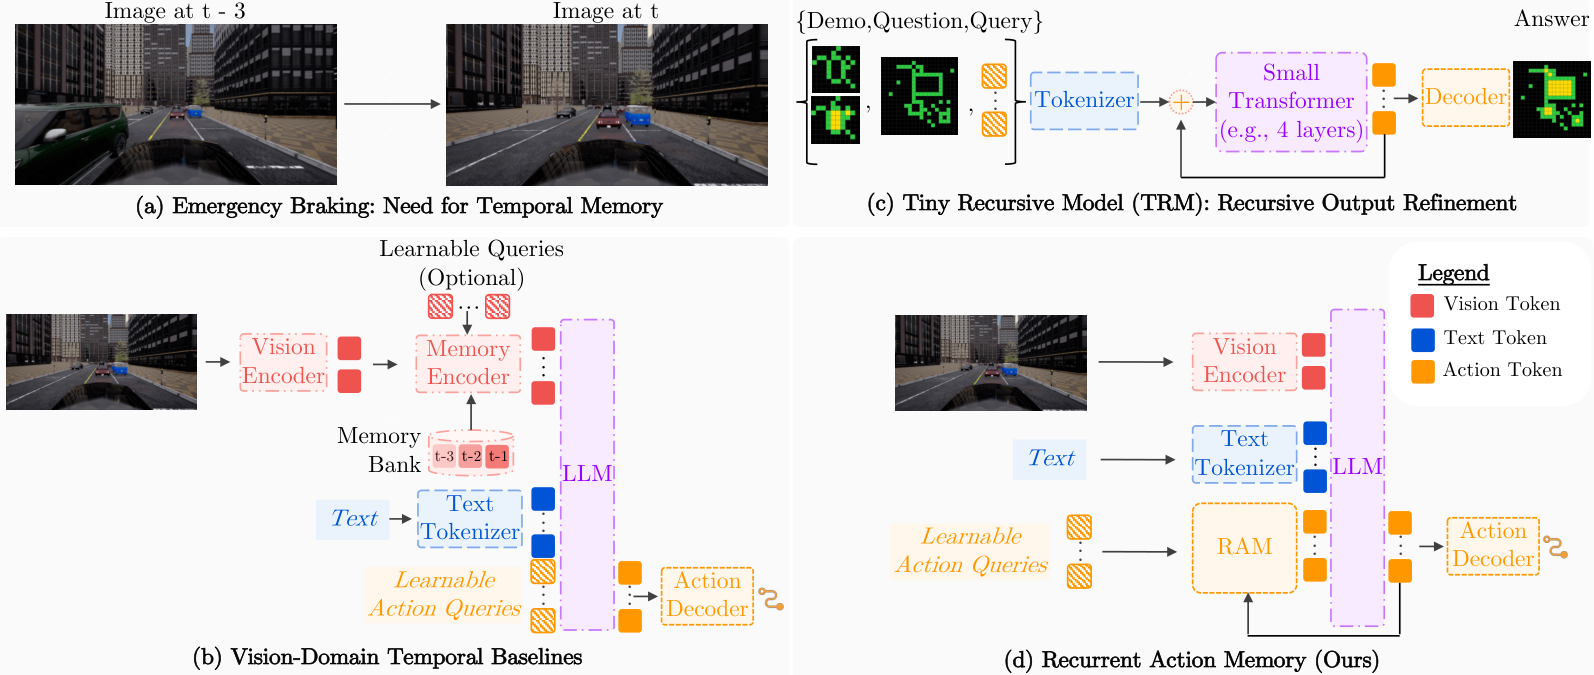
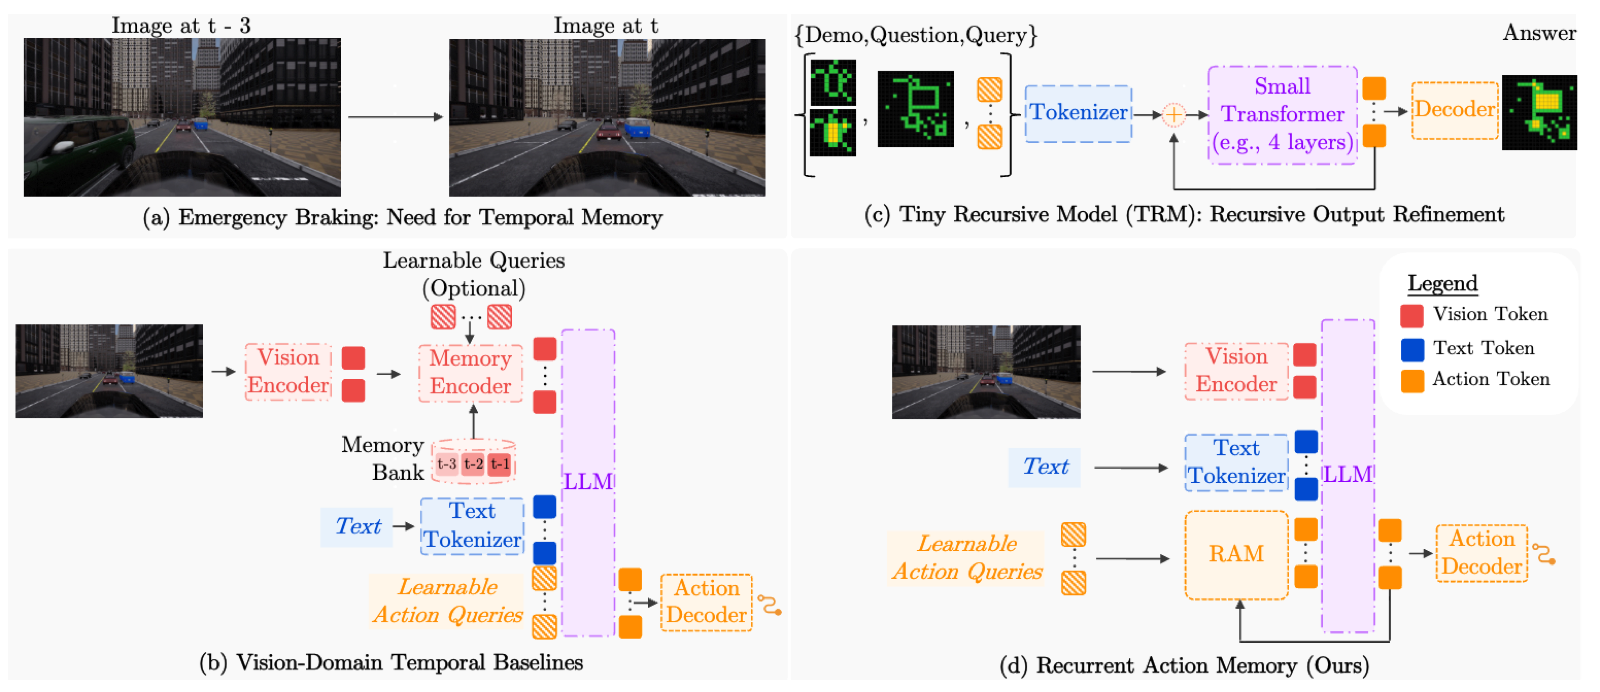
Sharpen publication images and rename Abstract to TL;DR
- Use crisper Figure 1 for FIVE-VLA featured image
- Generate list thumbnails at 1400px and single-page featured image at 1440px (2x display width)
- Override i18n so publication pages label the summary TL;DR, styled like section headings

diff --git a/layouts/partials/page_header.html b/layouts/partials/page_header.html
@@ -1,0 +1,106 @@
+{{/*
+  Overrides the Wowchemy partial of the same name. The only change: the
+  default (placement 1) featured image is generated at 2x its displayed
+  width so it stays sharp on high-DPI screens. Display size is unchanged.
+*/}}
+{{ $page := . }}
+{{ $featured := (.Resources.ByType "image").GetMatch "*featured*" }}
+{{ $anchor := $page.Params.image.focal_point | default "Smart" }}
+
+{{/* Set default titles for node pages */}}
+{{ $title := .Title }}
+{{ if and (not $title) .IsNode }}
+  {{ if eq .Type "post" }}
+    {{ $title = i18n "posts" }}
+  {{ else if eq .Type "event" }}
+    {{ $title = i18n "talks" }}
+  {{ else if eq .Type "publication" }}
+    {{ $title = i18n "publications" }}
+  {{end}}
+{{end}}
+
+{{/* Banner image */}}
+{{ if and .Params.banner.image (not (and $featured (not .Params.image.preview_only))) }}
+<div class="article-header">
+  {{- $img := "" -}}
+  {{ $alt := (.Params.banner.caption | default "") | plainify }}
+  {{ $destination := .Params.banner.image }}
+  {{ $is_remote := strings.HasPrefix $destination "http" }}
+  {{- if not $is_remote -}}
+    {{- $img = (.Page.Resources.ByType "image").GetMatch $destination -}}
+    {{- if not $img -}}
+      {{- $img = resources.Get (path.Join "media" $destination) -}}
+    {{- end -}}
+  {{- end -}}
+  {{ if $img }}
+    <img src="{{$img.RelPermalink}}" width="{{$img.Width}}" height="{{$img.Height}}" class="article-banner" alt="{{$alt}}">
+  {{ else }}
+    <img src="{{ .Params.banner.image }}" class="article-banner" alt="{{$alt}}">
+  {{ end }}
+
+  {{ with .Params.banner.caption }}<span class="article-header-caption">{{ . | markdownify | emojify }}</span>{{ end }}
+</div>
+{{end}}
+
+{{/* Featured image layout */}}
+{{ if and $featured (not .Params.image.preview_only) }}
+
+{{/* Fit image within max size. */}}
+{{ $image := $featured }}
+
+{{/* Determine image placement. */}}
+{{ $placement := .Params.image.placement | default 1 }}{{/* Default to full column width. */}}
+{{/* Fit image to container's max width */}}
+{{ $image_container := "" }}
+{{ if eq $placement 2}}
+  {{ $image_container = "container" }}
+  {{ $image = $featured.Fit "1200x2500 webp" }}
+{{else if eq $placement 3}}
+  {{ $image_container = "container-fluid" }}
+  {{ $image := $featured.Fit "2560x2560 webp" }}
+{{else}}
+  {{ $image_container = "article-container" }}
+  {{ $image = $featured.Fit "1440x5000 webp q85" }}
+{{end}}
+{{ $display_width := $image.Width }}
+{{ if eq $placement 1 }}{{ $display_width = div $image.Width 2 }}{{ end }}
+
+<div class="article-container pt-3">
+  <h1>{{ $title }}</h1>
+
+  {{ with $page.Params.subtitle }}
+  <p class="page-subtitle">{{ . | markdownify | emojify }}</p>
+  {{end}}
+
+  {{ partial "page_metadata" (dict "page" $page "is_list" 0 "share" true) }}
+  {{ partial "page_links_div.html" $page }}
+</div>
+
+{{/* Featured image */}}
+<div class="article-header {{$image_container}} featured-image-wrapper mt-4 mb-4" style="max-width: {{ $display_width }}px;">
+  <div style="position: relative">
+    <img src="{{ $image.RelPermalink }}" width="{{ $image.Width }}" height="{{ $image.Height }}" alt="{{ with $.Params.image.alt_text }}{{.}}{{ end }}" class="featured-image">
+    {{ with $.Params.image.caption }}<span class="article-header-caption">{{ . | markdownify | emojify }}</span>{{ end }}
+  </div>
+</div>
+{{else}}
+  {{/* Case when page has no image */}}
+
+  {{/* Wider container for nodes */}}
+  {{ $ctnr := "article-container" }}
+  {{ if $page.IsNode }}
+    {{ $ctnr = "universal-wrapper" }}
+  {{end}}
+<div class="{{$ctnr}} pt-3">
+  <h1>{{ $title }}</h1>
+
+  {{ with $page.Params.subtitle }}
+  <p class="page-subtitle">{{ . | markdownify | emojify }}</p>
+  {{end}}
+
+  {{ if not .IsNode }}
+    {{ partial "page_metadata" (dict "page" $page "is_list" 0 "share" true) }}
+    {{ partial "page_links_div.html" $page }}
+  {{end}}
+</div>
+{{end}}

diff --git a/assets/scss/custom.scss b/assets/scss/custom.scss
@@ -218,7 +218,8 @@ h3, h4, h5 { font-weight: 500; }
 // 7. Section headings
 // --------------------
 .section-heading h1,
-.col-12 > h1 {
+.col-12 > h1,
+.pub .article-container > h3 {   // "TL;DR" heading on publication pages
   font-size: var(--fs-4);
   font-weight: 600;
   letter-spacing: 0.02em;

diff --git a/layouts/partials/views/pub_item.html b/layouts/partials/views/pub_item.html
@@ -24,7 +24,7 @@
 {{ $figure := "" }}
 {{ if $show_figure }}
   {{ with ($item.Resources.ByType "image").GetMatch "*featured*" }}
-    {{ $figure = .Fit "700x400 webp q82" }}
+    {{ $figure = .Fit "1400x800 webp q85" }}
   {{ end }}
 {{ end }}
 
